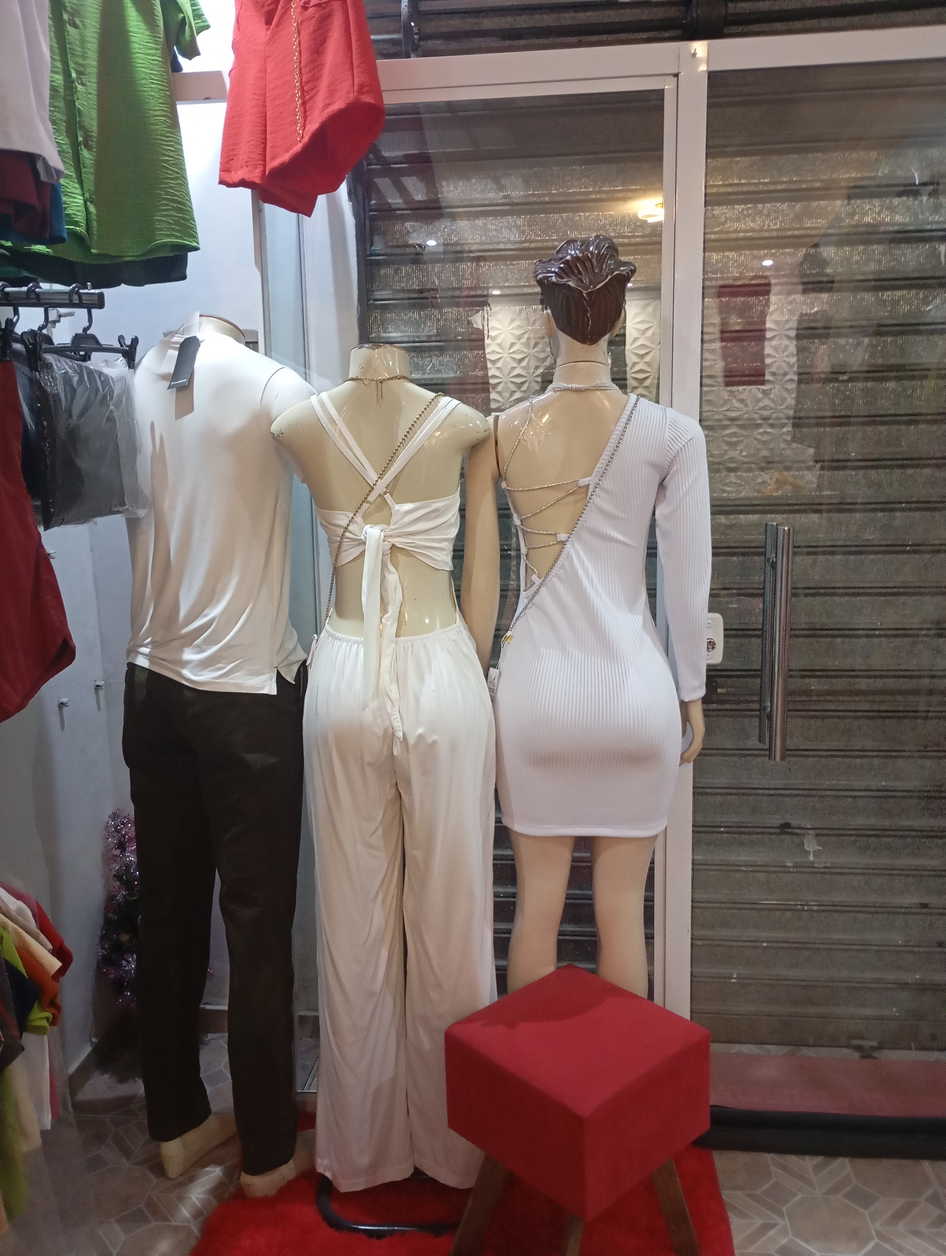
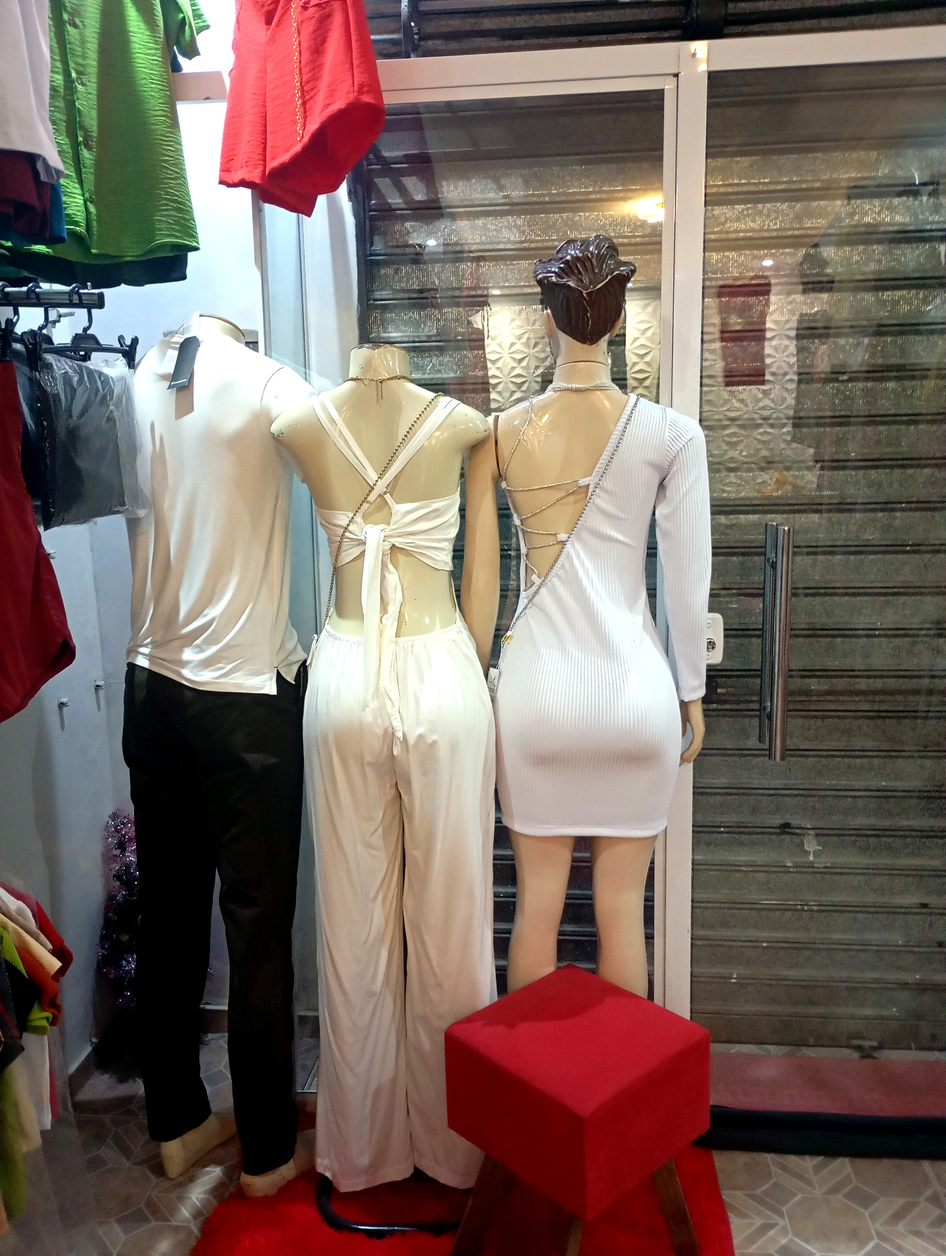
Add dark mode, fix layout gaps, and improve photo consistency
- Add dark mode toggle (sun/moon button, persisted via localStorage, no
  flash-of-wrong-theme on reload); introduce --superficie/--texto/--texto-claro
  variables to separate "background" from "text-on-dark" uses of the existing
  --branco/--escuro variables so both themes stay correct
- Fix white gap flashing at the top edge on scroll (body background was the
  light cream color; now matches the always-dark header/hero tone)
- Center the "Variedades & Presentes" gallery and review cards instead of
  leaving a lopsided gap when the grid isn't fully filled
- Increase contrast/weight of the subtext on WhatsApp/E-mail contact buttons
- Apply consistent auto-contrast/brightness/color correction to all product
  photos (were dim, flash-lit phone shots)

Assisted-by: Claude:Sonnet 5 [Claude-Code]

diff --git a/index.html b/index.html
@@ -4,6 +4,12 @@
 <meta charset="UTF-8">
 <meta name="viewport" content="width=device-width, initial-scale=1.0">
 <title>JL Variedades – Cascavel-CE</title>
+<script>
+  (function() {
+    var saved = localStorage.getItem('jl-theme');
+    if (saved === 'dark') document.documentElement.setAttribute('data-theme', 'dark');
+  })();
+</script>
 <link href="https://fonts.googleapis.com/css2?family=Playfair+Display:ital,wght@0,700;1,400&family=DM+Sans:wght@300;400;500&display=swap" rel="stylesheet">
 <style>
   /* ===== VARIÁVEIS ===== */
@@ -15,9 +21,25 @@
     --claro:   #fff8f5;
     --cinza:   #6b5b5f;
     --branco:  #ffffff;
+    --superficie: #ffffff;
+    --texto:   #1a0a0f;
+    --texto-claro: #ffffff;
     --verde-wp:#25d366;
     --r:       .75rem;
     --shadow:  0 8px 32px rgba(26,10,15,.15);
+    --transicao-tema: background .3s ease, color .3s ease, border-color .3s ease;
+  }
+
+  [data-theme="dark"] {
+    --claro:   #150a0d;
+    --superficie: #211217;
+    --cinza:   #b09499;
+    --texto:   #f7ece9;
+    --shadow:  0 8px 32px rgba(0,0,0,.4);
+  }
+
+  body, .card, .sobre-info-item, .review-card, header, .mobile-menu {
+    transition: var(--transicao-tema);
   }
 
   /* ===== RESET ===== */
@@ -25,8 +47,8 @@
   html { scroll-behavior: smooth; }
   body {
     font-family: 'DM Sans', sans-serif;
-    background: var(--claro);
-    color: var(--escuro);
+    background: var(--escuro);
+    color: var(--texto);
     overflow-x: hidden;
   }
   img { display: block; max-width: 100%; }
@@ -50,6 +72,7 @@
   .logo span { color: var(--rosa); }
 
   /* nav desktop */
+  .nav-wrap { display: flex; align-items: center; gap: 1.5rem; }
   nav ul {
     list-style: none;
     display: flex; gap: 2rem;
@@ -63,6 +86,23 @@
     transition: color .25s;
   }
   nav a:hover { color: var(--rosa); }
+
+  /* theme toggle */
+  .theme-toggle {
+    width: 38px; height: 38px;
+    border-radius: 50%;
+    border: 1px solid rgba(255,255,255,.25);
+    background: rgba(255,255,255,.08);
+    color: var(--branco);
+    display: flex; align-items: center; justify-content: center;
+    cursor: pointer;
+    transition: background .2s;
+    flex-shrink: 0;
+  }
+  .theme-toggle:hover { background: rgba(255,255,255,.18); }
+  .theme-toggle .icon-moon { display: none; }
+  [data-theme="dark"] .theme-toggle .icon-sun { display: none; }
+  [data-theme="dark"] .theme-toggle .icon-moon { display: block; }
 
   /* hamburger */
   .hamburger {
@@ -197,7 +237,7 @@
     font-size: clamp(1.8rem, 4vw, 2.6rem);
     line-height: 1.2;
     margin-bottom: 1rem;
-    color: var(--escuro);
+    color: var(--texto);
   }
   .section-desc {
     color: var(--cinza);
@@ -215,7 +255,7 @@
   }
 
   /* ===== SOBRE ===== */
-  #sobre { background: var(--branco); }
+  #sobre { background: var(--superficie); }
   .sobre-grid {
     display: grid;
     grid-template-columns: 1fr 1fr;
@@ -268,7 +308,7 @@
 
   /* ===== GALERIAS ===== */
   #variedades { background: var(--claro); }
-  #roupas     { background: var(--branco); }
+  #roupas     { background: var(--superficie); }
 
   .gallery-grid {
     display: grid;
@@ -276,13 +316,18 @@
     gap: 1.2rem;
   }
 
+  .gallery-grid-compact {
+    grid-template-columns: repeat(2, minmax(260px, 360px));
+    justify-content: center;
+  }
+
   /* CARD */
   .card {
     border-radius: 1rem;
     overflow: hidden;
     box-shadow: var(--shadow);
-    background: var(--branco);
-    transition: transform .3s, box-shadow .3s;
+    background: var(--superficie);
+    transition: transform .3s, box-shadow .3s, background .3s ease;
     cursor: pointer;
   }
   .card:hover { transform: translateY(-6px); box-shadow: 0 16px 44px rgba(26,10,15,.2); }
@@ -340,7 +385,8 @@
   .stars-container { display: flex; flex-direction: column; align-items: center; gap: .6rem; }
   .stars { font-size: 2.8rem; letter-spacing: .15rem; color: var(--dourado); }
   .stars-label { color: rgba(255,255,255,.6); font-size: .9rem; }
-  .review-cards { display: grid; grid-template-columns: repeat(auto-fill,minmax(240px,1fr)); gap: 1.2rem; margin-top: 3rem; }
+  .review-cards { display: flex; flex-wrap: wrap; justify-content: center; gap: 1.2rem; margin-top: 3rem; }
+  .review-card { flex: 1 1 240px; max-width: 320px; }
   .review-card {
     background: rgba(255,255,255,.06);
     border: 1px solid rgba(255,255,255,.1);
@@ -370,7 +416,7 @@
   .btn-contato .icon { font-size: 1.4rem; }
   .btn-contato.wp    { background: var(--verde-wp); color: var(--branco); }
   .btn-contato.mail  { background: var(--rosa2);   color: var(--branco); }
-  .btn-contato small { display: block; font-size: .75rem; opacity: .8; font-weight: 300; }
+  .btn-contato small { display: block; font-size: .8rem; opacity: .95; font-weight: 400; margin-top: .15rem; }
 
   .contato-map {
     background: linear-gradient(135deg, var(--escuro), #3a1020);
@@ -517,17 +563,23 @@
 <!-- ===== HEADER ===== -->
 <header>
   <div class="logo">JL<span>Variedades</span></div>
-  <nav>
-    <ul>
-      <li><a href="#inicio">Início</a></li>
-      <li><a href="#variedades">Variedades</a></li>
-      <li><a href="#roupas">Roupas</a></li>
-      <li><a href="#contato">Contato</a></li>
-    </ul>
-  </nav>
-  <button class="hamburger" id="hamburger" aria-label="Menu">
-    <span></span><span></span><span></span>
-  </button>
+  <div class="nav-wrap">
+    <nav>
+      <ul>
+        <li><a href="#inicio">Início</a></li>
+        <li><a href="#variedades">Variedades</a></li>
+        <li><a href="#roupas">Roupas</a></li>
+        <li><a href="#contato">Contato</a></li>
+      </ul>
+    </nav>
+    <button class="theme-toggle" id="themeToggle" aria-label="Alternar modo escuro">
+      <svg class="icon-sun" width="18" height="18" viewBox="0 0 24 24" fill="none" stroke="currentColor" stroke-width="2" stroke-linecap="round" stroke-linejoin="round"><circle cx="12" cy="12" r="5"/><line x1="12" y1="1" x2="12" y2="3"/><line x1="12" y1="21" x2="12" y2="23"/><line x1="4.22" y1="4.22" x2="5.64" y2="5.64"/><line x1="18.36" y1="18.36" x2="19.78" y2="19.78"/><line x1="1" y1="12" x2="3" y2="12"/><line x1="21" y1="12" x2="23" y2="12"/><line x1="4.22" y1="19.78" x2="5.64" y2="18.36"/><line x1="18.36" y1="5.64" x2="19.78" y2="4.22"/></svg>
+      <svg class="icon-moon" width="18" height="18" viewBox="0 0 24 24" fill="none" stroke="currentColor" stroke-width="2" stroke-linecap="round" stroke-linejoin="round"><path d="M21 12.79A9 9 0 1 1 11.21 3 7 7 0 0 0 21 12.79z"/></svg>
+    </button>
+    <button class="hamburger" id="hamburger" aria-label="Menu">
+      <span></span><span></span><span></span>
+    </button>
+  </div>
 </header>
 
 <!-- Mobile Menu -->
@@ -608,7 +660,7 @@
     <div class="divider"></div>
     <p class="section-desc" style="margin-bottom:2.5rem">Kits presentes, pelúcias, perfumes, acessórios e muito mais para presentear quem você ama em datas especiais.</p>
 
-    <div class="gallery-grid">
+    <div class="gallery-grid gallery-grid-compact">
       <!-- Card 1 -->
       <div class="card">
         <div class="card-img">
@@ -825,6 +877,19 @@
 
 <!-- ===== JAVASCRIPT ===== -->
 <script>
+  /* --- MODO ESCURO --- */
+  const themeToggle = document.getElementById('themeToggle');
+  themeToggle.addEventListener('click', () => {
+    const isDark = document.documentElement.getAttribute('data-theme') === 'dark';
+    if (isDark) {
+      document.documentElement.removeAttribute('data-theme');
+      localStorage.setItem('jl-theme', 'light');
+    } else {
+      document.documentElement.setAttribute('data-theme', 'dark');
+      localStorage.setItem('jl-theme', 'dark');
+    }
+  });
+
   /* --- MENU HAMBÚRGUER --- */
   const hamburger   = document.getElementById('hamburger');
   const mobileMenu  = document.getElementById('mobileMenu');
